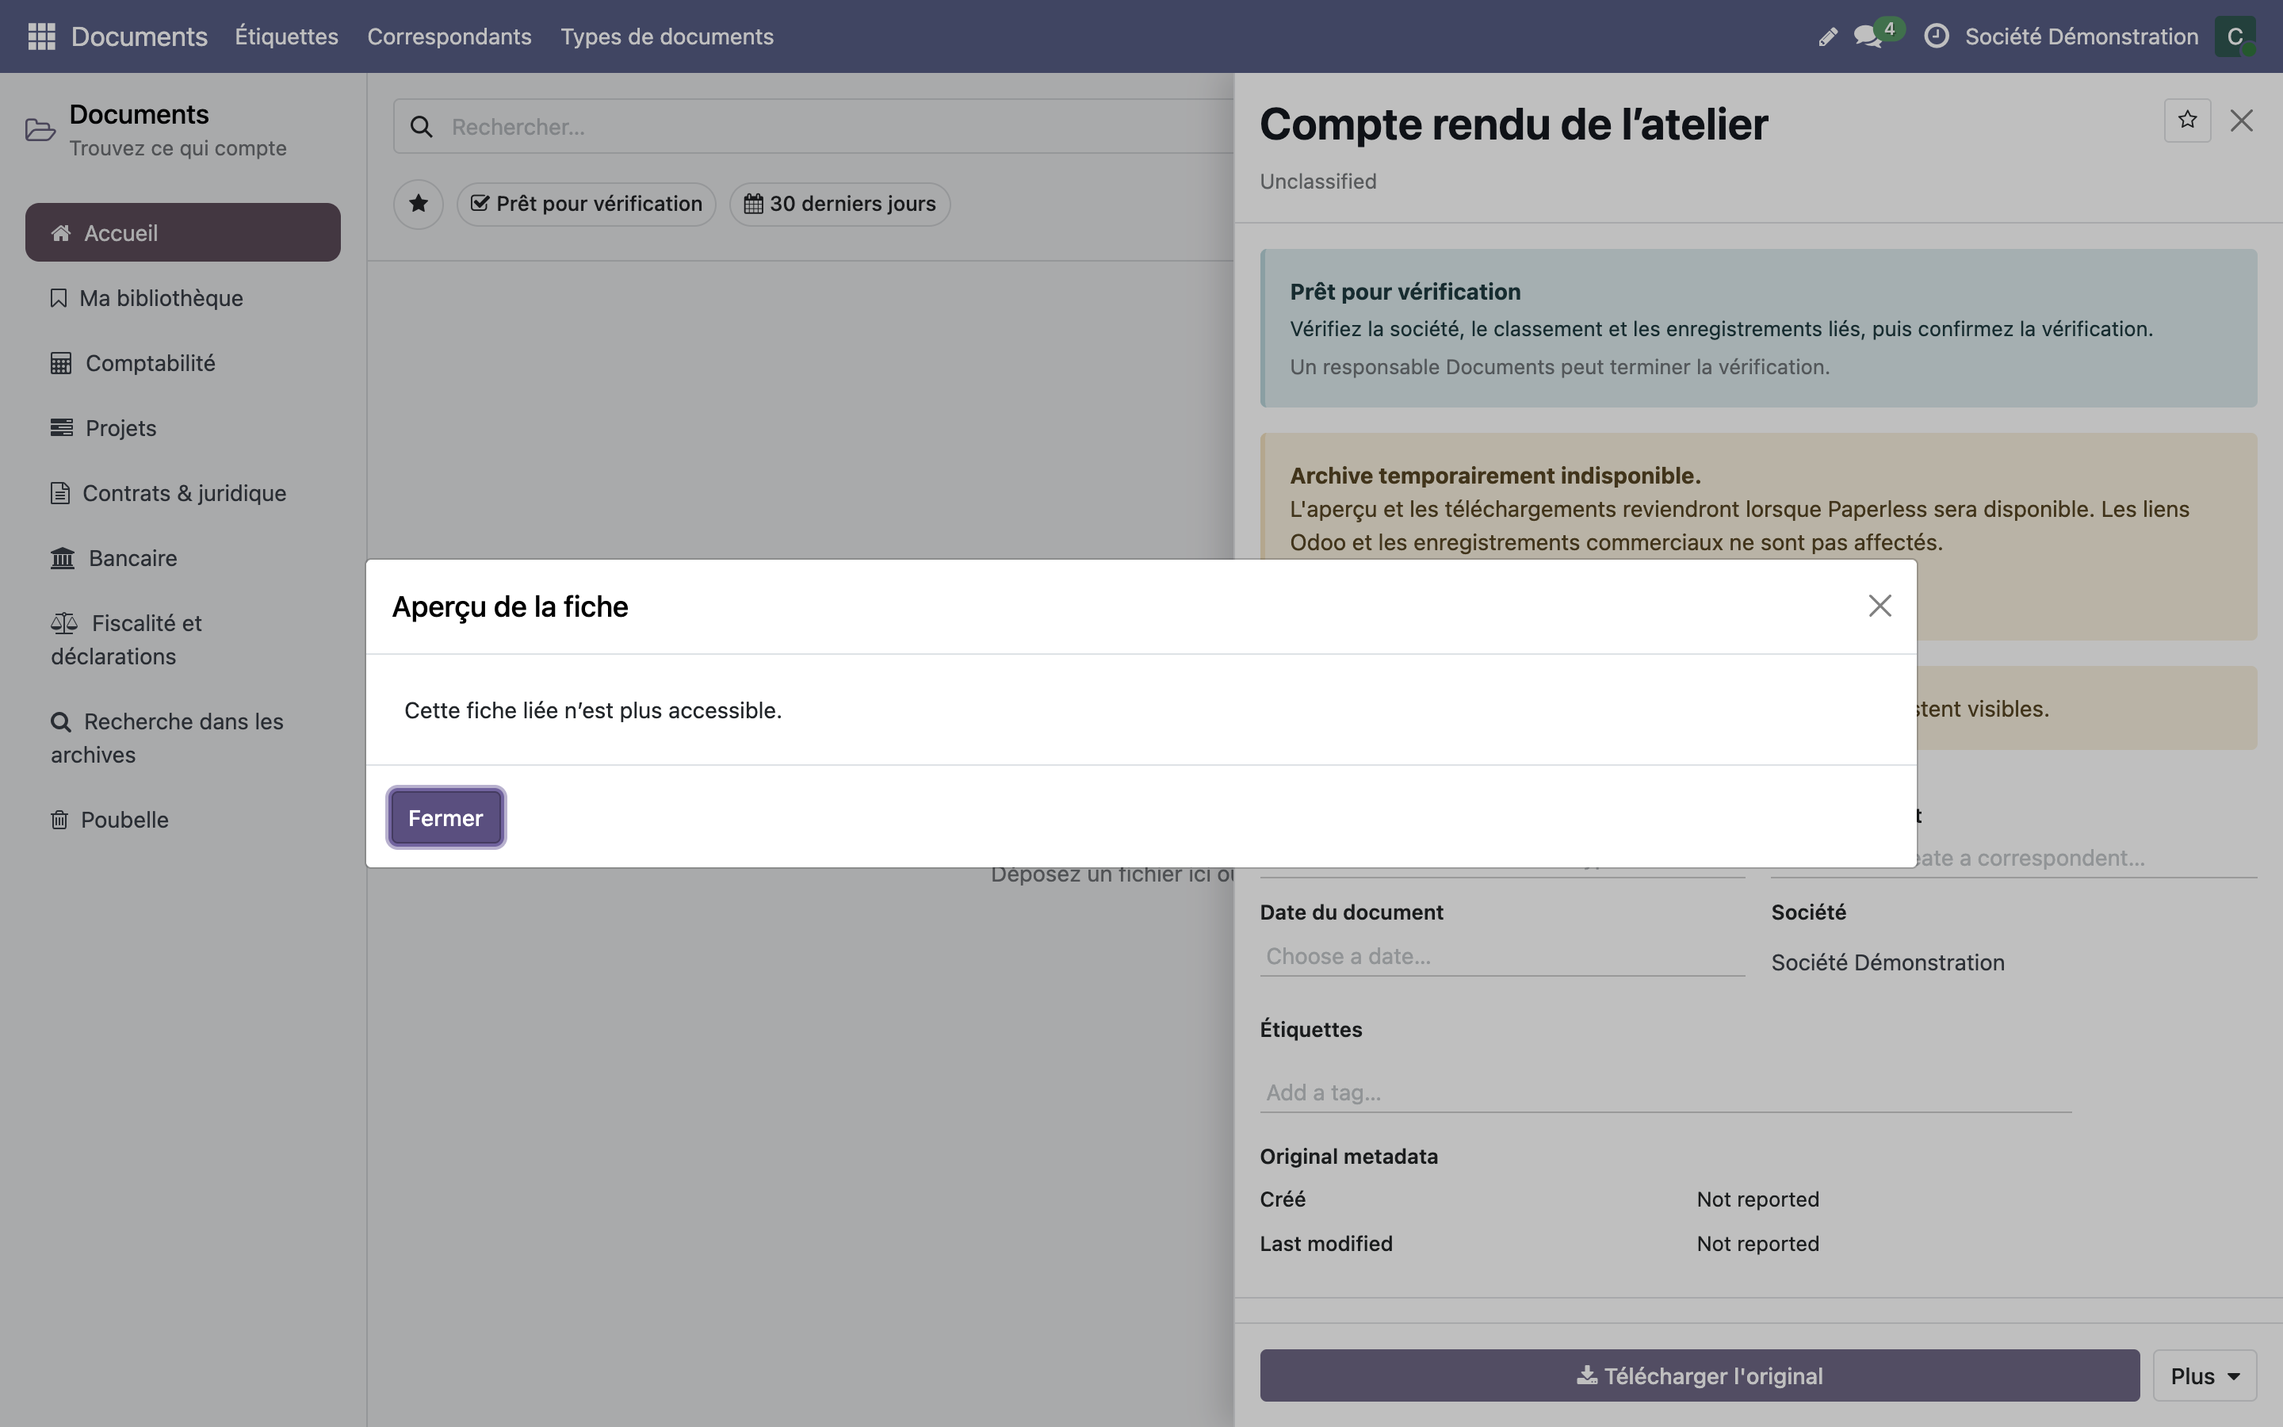
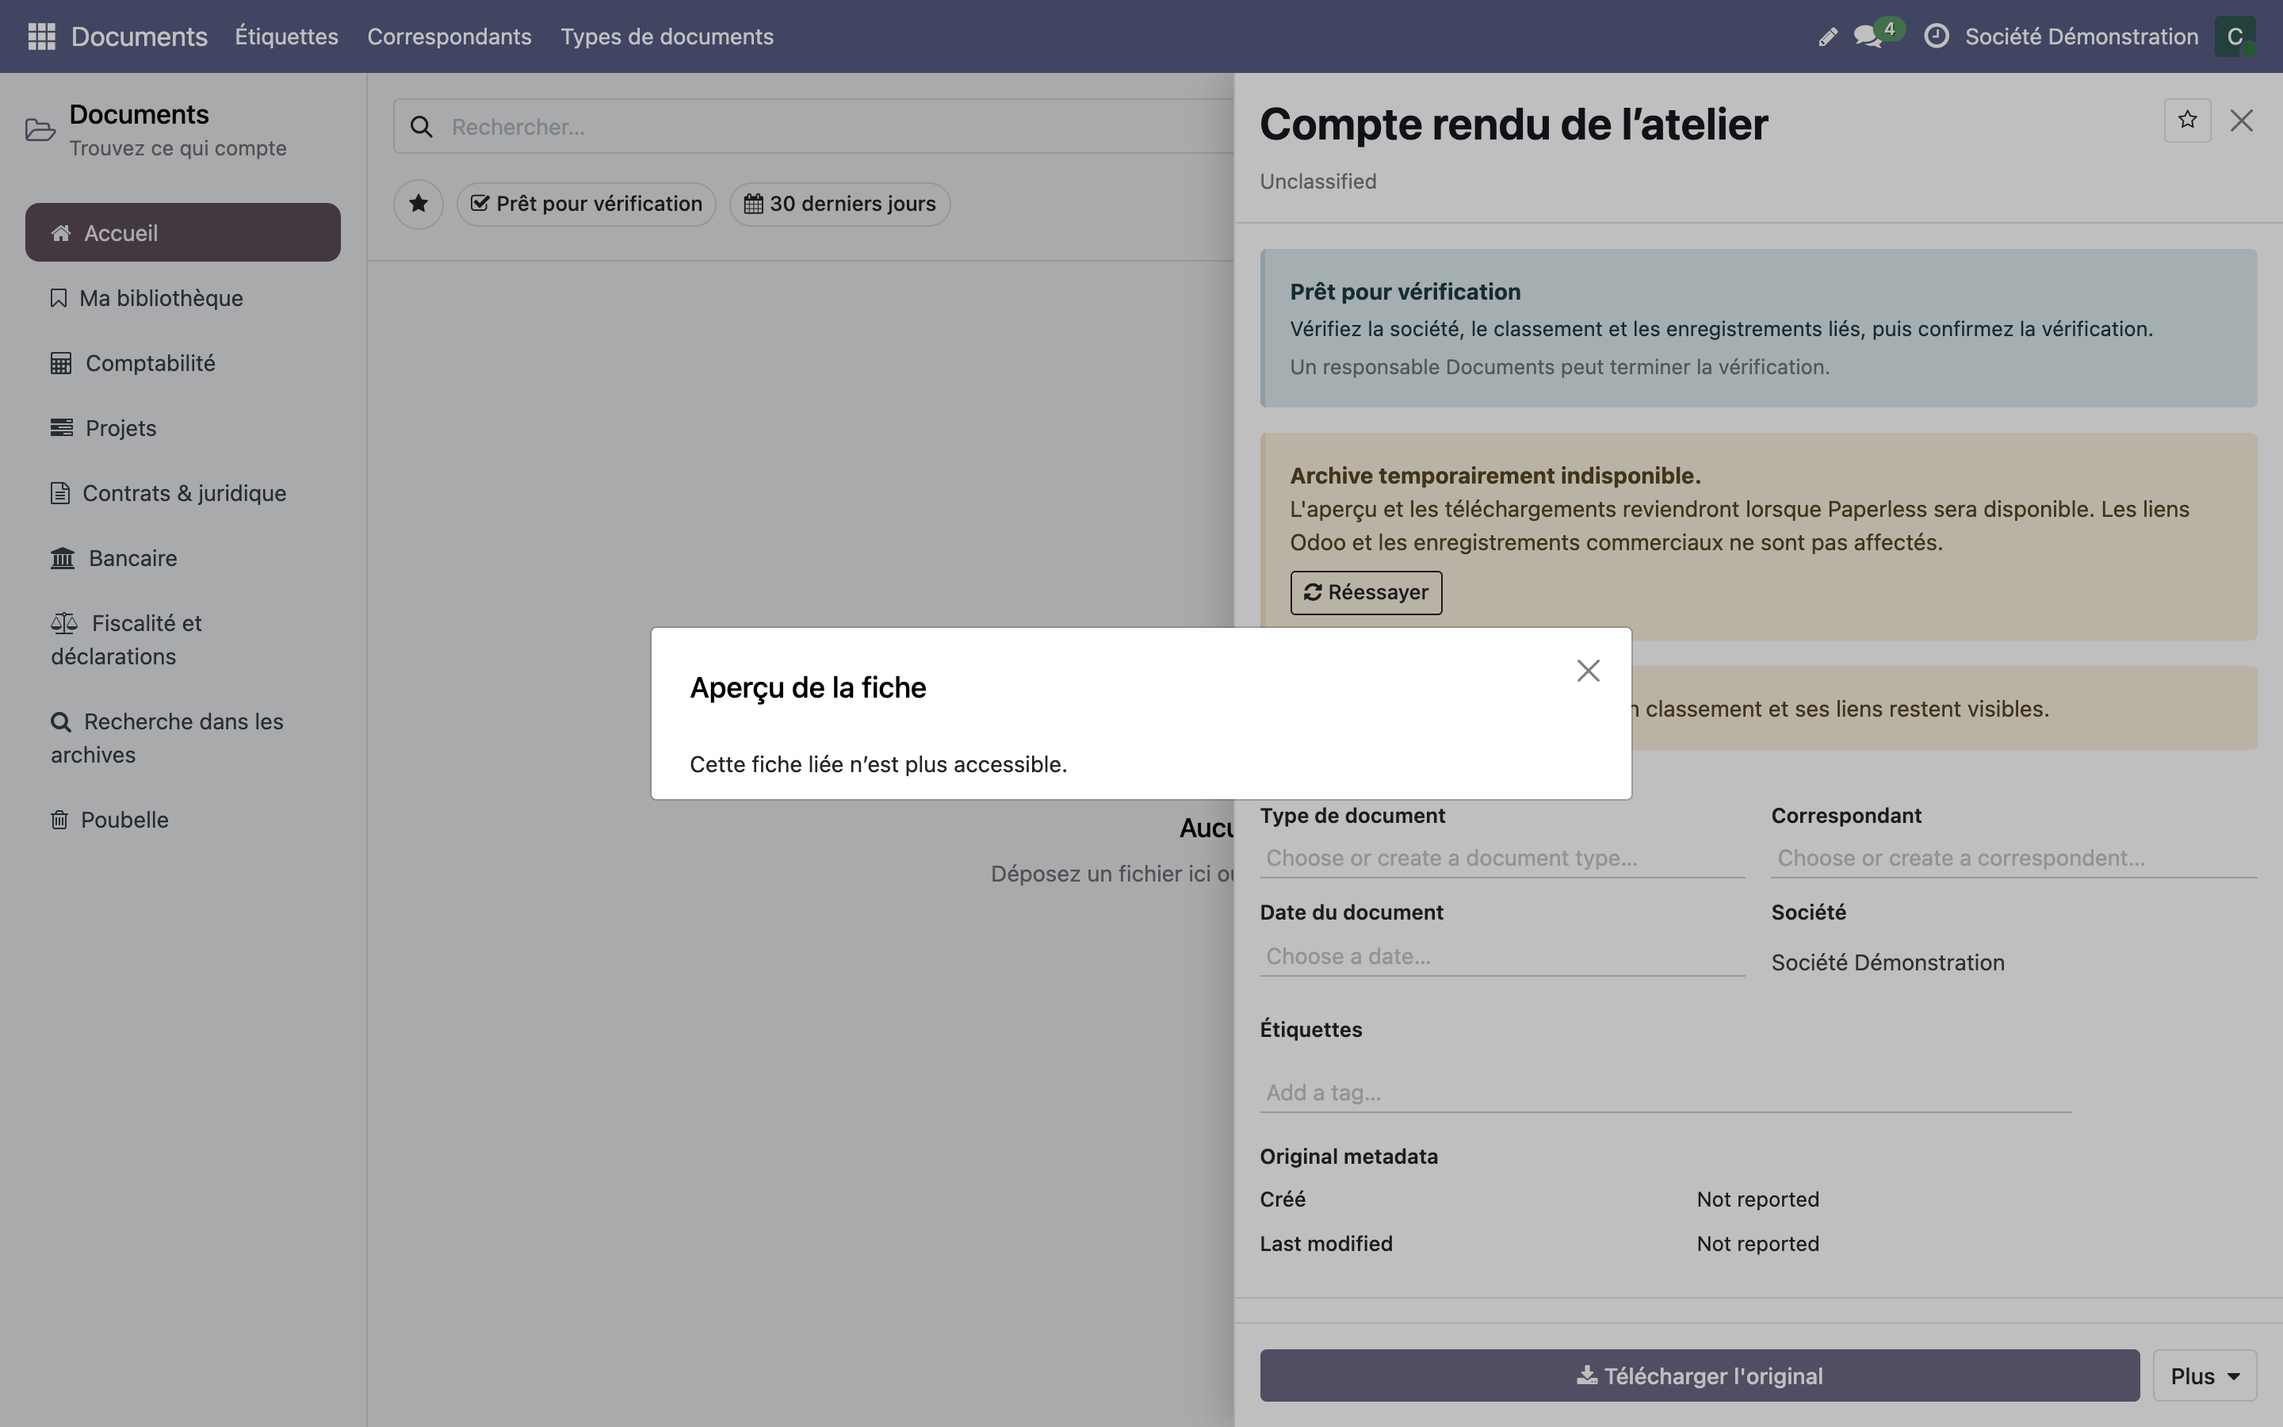
fix(documents): keep business actions in the full linked record
Show translated, readable record details as plain text in Documents. Keep native actions in the complete form and let readers retry a failed preview.

Validation:
- Verified with writable and read-only synthetic roles, 67 desktop and 55 mobile interface tests, native access, 58,247 sealed actions and two module upgrades.

AI-generated commit

Changed region(s): [[0.1562, 0.3733, 0.8438, 0.6222]]

diff --git a/custom-addons/usl_documents/static/tests/linked_record_preview.test.js b/custom-addons/usl_documents/static/tests/linked_record_preview.test.js
@@ -2,16 +2,16 @@ import { advanceTime, expect, test } from "@odoo/hoot";
 import { animationFrame } from "@odoo/hoot-mock";
 import { Component, xml } from "@odoo/owl";
 import { defineMailModels } from "@mail/../tests/mail_test_helpers";
-import { contains, makeServerError, mountWithCleanup, patchWithCleanup } from "@web/../tests/web_test_helpers";
+import { contains, makeServerError, mountWithCleanup } from "@web/../tests/web_test_helpers";
 import { useOwnedDialogs } from "@web/core/utils/hooks";
 import { LinkedRecordPreview } from "../src/linked_record_preview";
 
 defineMailModels();
 
-class ReadableForm extends Component {
-    static template = xml`<span class="qa-readable-form">Synthetic project</span>`;
-    static props = ["*"];
-}
+const snapshot = {
+    res_model: "project.project", res_id: 31, name: "Synthetic project",
+    fields: [{ label: "Company", value: "Demo company" }],
+};
 
 class PreviewHost extends Component {
     static template = xml`<button class="qa-preview" t-on-click="show">Preview</button>`;
@@ -22,37 +22,36 @@ class PreviewHost extends Component {
     show() {
         this.addDialog(LinkedRecordPreview, {
             ...this.props, resModel: "project.project", resId: 31, title: "Linked record",
-            readonly: true, preventEdit: true, preventCreate: true, canExpand: false,
         });
     }
 }
 
-test("an open preview clears the native form when access ends", async () => {
-    patchWithCleanup(LinkedRecordPreview, { components: { ...LinkedRecordPreview.components, View: ReadableForm } });
+test("an open preview clears the record details when access ends", async () => {
     let readable = true;
     await mountWithCleanup(PreviewHost, { props: {
         checkLink: async () => {
             if (!readable) {
                 throw makeServerError({ type: "AccessError" });
             }
-            return { res_model: "project.project", res_id: 31 };
+            return snapshot;
         },
         onUnavailable: () => expect.step("remove stale link"),
     } });
     await contains(".qa-preview").click();
     await animationFrame();
-    expect(".qa-readable-form").toHaveText("Synthetic project");
+    expect(".o_usl_linked_record_summary h3").toHaveText("Synthetic project");
+    expect(".o_usl_linked_record_summary dd").toHaveText("Demo company");
+    expect(".modal-body :is(button, input, a, [role=button], [contenteditable])").toHaveCount(0);
     readable = false;
     await advanceTime(4100);
     await animationFrame();
-    expect(".qa-readable-form").toHaveCount(0);
+    expect(".o_usl_linked_record_summary").toHaveCount(0);
     expect(".modal [role=status]").toHaveText(/no longer have access/);
     expect.verifySteps(["remove stale link"]);
 });
 
 test("a stalled recheck clears an old preview and ignores its late response", async () => {
-    patchWithCleanup(LinkedRecordPreview, { components: { ...LinkedRecordPreview.components, View: ReadableForm } });
-    const action = { res_model: "project.project", res_id: 31 };
+    const action = snapshot;
     let finish;
     let reachable = true;
     await mountWithCleanup(PreviewHost, { props: {
@@ -61,18 +60,44 @@ test("a stalled recheck clears an old preview and ignores its late response", as
     } });
     await contains(".qa-preview").click();
     await animationFrame();
-    expect(".qa-readable-form").toHaveCount(1);
+    expect(".o_usl_linked_record_summary").toHaveCount(1);
     reachable = false;
     await advanceTime(8100);
     await animationFrame();
-    expect(".qa-readable-form").toHaveCount(0);
+    expect(".o_usl_linked_record_summary").toHaveCount(0);
     expect(".modal [role=status]").toHaveText(/connection was interrupted/);
     finish(action);
     await animationFrame();
-    expect(".qa-readable-form").toHaveCount(0);
+    expect(".o_usl_linked_record_summary").toHaveCount(0);
     reachable = true;
     await contains(".modal button", { text: "Try again" }).click();
     await animationFrame();
-    expect(".qa-readable-form").toHaveCount(1);
+    expect(".o_usl_linked_record_summary").toHaveCount(1);
+    expect.verifySteps([]);
+});
+
+
+test("a server failure hides the record and a retry recovers it without dropping the link", async () => {
+    let failing = false;
+    await mountWithCleanup(PreviewHost, { props: {
+        checkLink: async () => {
+            if (failing) {
+                throw makeServerError({ type: "RuntimeError" });
+            }
+            return snapshot;
+        },
+        onUnavailable: () => expect.step("remove link"),
+    } });
+    await contains(".qa-preview").click();
+    await animationFrame();
+    failing = true;
+    await advanceTime(4100);
+    await animationFrame();
+    expect(".o_usl_linked_record_summary").toHaveCount(0);
+    expect(".modal [role=status]").toHaveText(/could not be loaded/);
+    failing = false;
+    await contains(".modal button", { text: "Try again" }).click();
+    await animationFrame();
+    expect(".o_usl_linked_record_summary h3").toHaveText("Synthetic project");
     expect.verifySteps([]);
 });

diff --git a/custom-addons/usl_documents/static/src/linked_record_preview.js b/custom-addons/usl_documents/static/src/linked_record_preview.js
@@ -1,21 +1,24 @@
 /** @odoo-module **/
 
-import { onError, onMounted, onWillDestroy, useExternalListener, useState } from "@odoo/owl";
+import { Component, onMounted, onWillDestroy, useExternalListener, useState } from "@odoo/owl";
 import { browser } from "@web/core/browser/browser";
-import { FormViewDialog } from "@web/views/view_dialogs/form_view_dialog";
+import { Dialog } from "@web/core/dialog/dialog";
+import { ConnectionLostError } from "@web/core/network/rpc";
 
 // Only the open dialog polls. A stalled request must not leave the last form on screen.
 const CHECK_INTERVAL = 4000;
 const MAX_CHECK_AGE = 8000;
 
-export class LinkedRecordPreview extends FormViewDialog {
+export class LinkedRecordPreview extends Component {
     static template = "usl_documents.LinkedRecordPreview";
-    static props = { ...FormViewDialog.props, checkLink: Function, onUnavailable: Function };
+    static components = { Dialog };
+    static props = {
+        close: Function, title: String, resModel: String, resId: Number,
+        checkLink: Function, onUnavailable: Function,
+    };
 
     setup() {
-        super.setup();
-        this.viewProps.buttonDialogTemplate = "usl_documents.LinkedRecordPreview.NoButtons";
-        this.preview = useState({ phase: "checking" });
+        this.preview = useState({ phase: "checking", record: null });
         this.generation = 0;
         this.pending = false;
         onMounted(() => this.check());
@@ -34,17 +37,10 @@ export class LinkedRecordPreview extends FormViewDialog {
                 this.check();
             }
         });
-        onError((error) => {
-            // Native form loading can race the loss of an otherwise valid grant.
-            const name = error.cause?.data?.name || error.data?.name;
-            if (!["odoo.exceptions.AccessError", "odoo.exceptions.MissingError"].includes(name)) {
-                throw error;
-            }
-            this.unavailable();
-        });
     }
 
     invalidate() {
+        this.preview.record = null;
         this.generation++;
         this.pending = false;
         browser.clearTimeout(this.nextCheck);
@@ -82,6 +78,7 @@ export class LinkedRecordPreview extends FormViewDialog {
                 return;
             }
             this.pending = false;
+            this.preview.record = action;
             this.preview.phase = "ready";
             browser.clearTimeout(this.expiry);
             this.expiry = browser.setTimeout(() => this.disconnect(), MAX_CHECK_AGE);
@@ -94,8 +91,11 @@ export class LinkedRecordPreview extends FormViewDialog {
             if (["odoo.exceptions.AccessError", "odoo.exceptions.MissingError",
                 "odoo.exceptions.ValidationError", "odoo.exceptions.UserError"].includes(name)) {
                 this.unavailable();
-            } else {
+            } else if (error instanceof ConnectionLostError) {
                 this.disconnect();
+            } else {
+                this.invalidate();
+                this.preview.phase = "error";
             }
         }
     }

diff --git a/custom-addons/usl_documents/static/src/documents_app.js b/custom-addons/usl_documents/static/src/documents_app.js
@@ -3304,12 +3304,9 @@ export class DocumentsWorkspaceView extends Component {
             title: _t("Record preview"),
             resModel: link.model,
             resId: link.res_id,
-            context: this.props.action.context || {},
-            readonly: true,
-            preventCreate: true,
-            preventEdit: true,
-            canExpand: false,
-            checkLink: () => this.rpc("usl.document", "action_open_linked_record", [[documentId], link.id]),
+            checkLink: () => this.rpc(
+                "usl.document", "action_open_linked_record", [[documentId], link.id], { preview: true },
+            ),
             onUnavailable: () => this.refreshAfterLinkedAccessChange(documentId),
         });
     }

diff --git a/custom-addons/usl_documents/models/document_link.py b/custom-addons/usl_documents/models/document_link.py
@@ -8,6 +8,8 @@ from odoo import (
 )
 from odoo.exceptions import AccessError, UserError, ValidationError
 
+from odoo.tools import format_date
+
 from .document import ARCHIVE_MODES, ATTACHMENT_ORIGINS, DOCUMENT_ROLES
 
 
@@ -259,13 +261,20 @@ class UslDocumentLink(models.Model):
         self.ensure_one()
         return self._record_action()
 
-    def _record_action(self, user_env=None):
+    def _record_action(self, user_env=None, *, preview=False):
         self.ensure_one()
         user_env = user_env or self.env
         record = user_env[self.res_model].browse(self.res_id).exists()
         if not record:
             raise UserError(_("The linked Odoo record no longer exists."))
         record.check_access("read")
+        if preview:
+            return {
+                "res_model": self.res_model,
+                "res_id": self.res_id,
+                "name": record.display_name,
+                "fields": self._preview_fields(record),
+            }
         return {
             "type": "ir.actions.act_window",
             "name": record.display_name,
@@ -274,6 +283,36 @@ class UslDocumentLink(models.Model):
             "view_mode": "form",
             "views": [(False, "form")],
         }
+
+    @api.model
+    def _preview_fields(self, record):
+        # Use native translated metadata and the target user's field access.
+        # Render a few identifying facts as text, never a business form widget.
+        candidates = (
+            "stage_id", "state", "project_id", "partner_id", "user_id",
+            "department_id", "invoice_date", "date_deadline", "date",
+            "city", "country_id", "company_id",
+        )
+        metadata = record.fields_get(candidates, ["type", "string", "selection"])
+        result = []
+        for name in candidates:
+            field = metadata.get(name)
+            if not field or field["type"] not in ("char", "selection", "many2one", "date"):
+                continue
+            value = record[name]
+            if not value:
+                continue
+            if field["type"] == "many2one":
+                if not value.has_access("read"):
+                    continue
+                value = value.display_name
+            elif field["type"] == "selection":
+                value = dict(field["selection"]).get(value)
+            elif field["type"] == "date":
+                value = format_date(record.env, value)
+            if value:
+                result.append({"label": field["string"], "value": value})
+        return result
 
     def unlink(self):
         if self.env.su:

diff --git a/custom-addons/usl_documents/tests/test_documents.py b/custom-addons/usl_documents/tests/test_documents.py
@@ -1916,12 +1916,29 @@ class TestDocuments(TransactionCase):
             )
         self.assertNotEqual(internal_link, evidence_link)
 
+    def test_link_preview_shows_readable_facts_and_open_returns_the_native_action(self):
+        document = self._document(1421)
+        self.partner_a.city = "Lyon"
+        link = document.link_to_record("res.partner", self.partner_a.id)
+        doc = document.with_user(self.user)
+        snapshot = doc.action_open_linked_record(link.id, preview=True)
+        self.assertEqual(snapshot["name"], self.partner_a.display_name)
+        self.assertIn({"label": "City", "value": "Lyon"}, snapshot["fields"])
+        self.assertNotIn("type", snapshot)
+        action = doc.action_open_linked_record(link.id)
+        self.assertEqual(action["type"], "ir.actions.act_window")
+        self.assertEqual(action["res_model"], "res.partner")
+        self.assertEqual(action["res_id"], self.partner_a.id)
+        self.assertNotIn("fields", action)
+
     def test_linked_record_metadata_is_hidden_without_target_record_access(self):
         document = self._document(1420)
         employee = self.env["hr.employee"].create(
             {"name": "Restricted Employee", "company_id": self.company_a.id},
         )
-        document.link_to_record("hr.employee", employee.id)
+        link = document.link_to_record("hr.employee", employee.id)
+        with self.assertRaises(AccessError):
+            document.with_user(self.user).action_open_linked_record(link.id, preview=True)
 
         detail = document.with_user(self.user).document_detail(document.id)
         workspace = self.env["usl.document"].with_user(self.user).workspace_data(

diff --git a/custom-addons/usl_documents/models/document.py b/custom-addons/usl_documents/models/document.py
@@ -1232,7 +1232,7 @@ class UslDocument(models.Model):
             )
         return self.document_detail(self.id)
 
-    def action_open_linked_record(self, link_id):
+    def action_open_linked_record(self, link_id, *, preview=False):
         self.ensure_one()
         self.check_access("read")
         link = self.sudo().link_ids.filtered(
@@ -1240,7 +1240,7 @@ class UslDocument(models.Model):
         )
         if not link:
             raise ValidationError(_("That Odoo relationship no longer exists."))
-        return link._record_action(user_env=self.env)
+        return link._record_action(user_env=self.env, preview=preview)
 
     def action_open_in_documents(self):
         """Open this document in the Documents app, where its metadata is edited.
